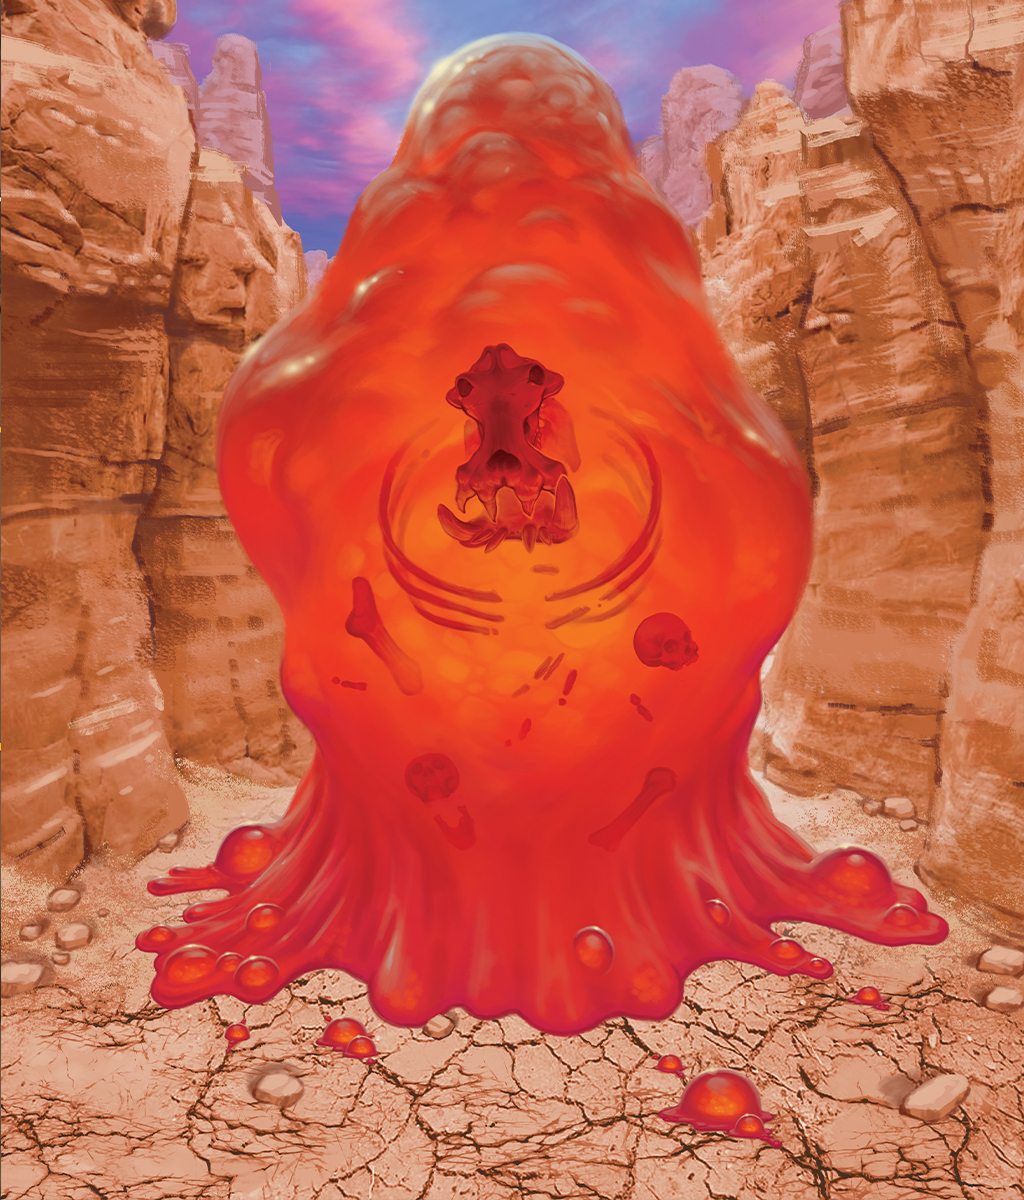
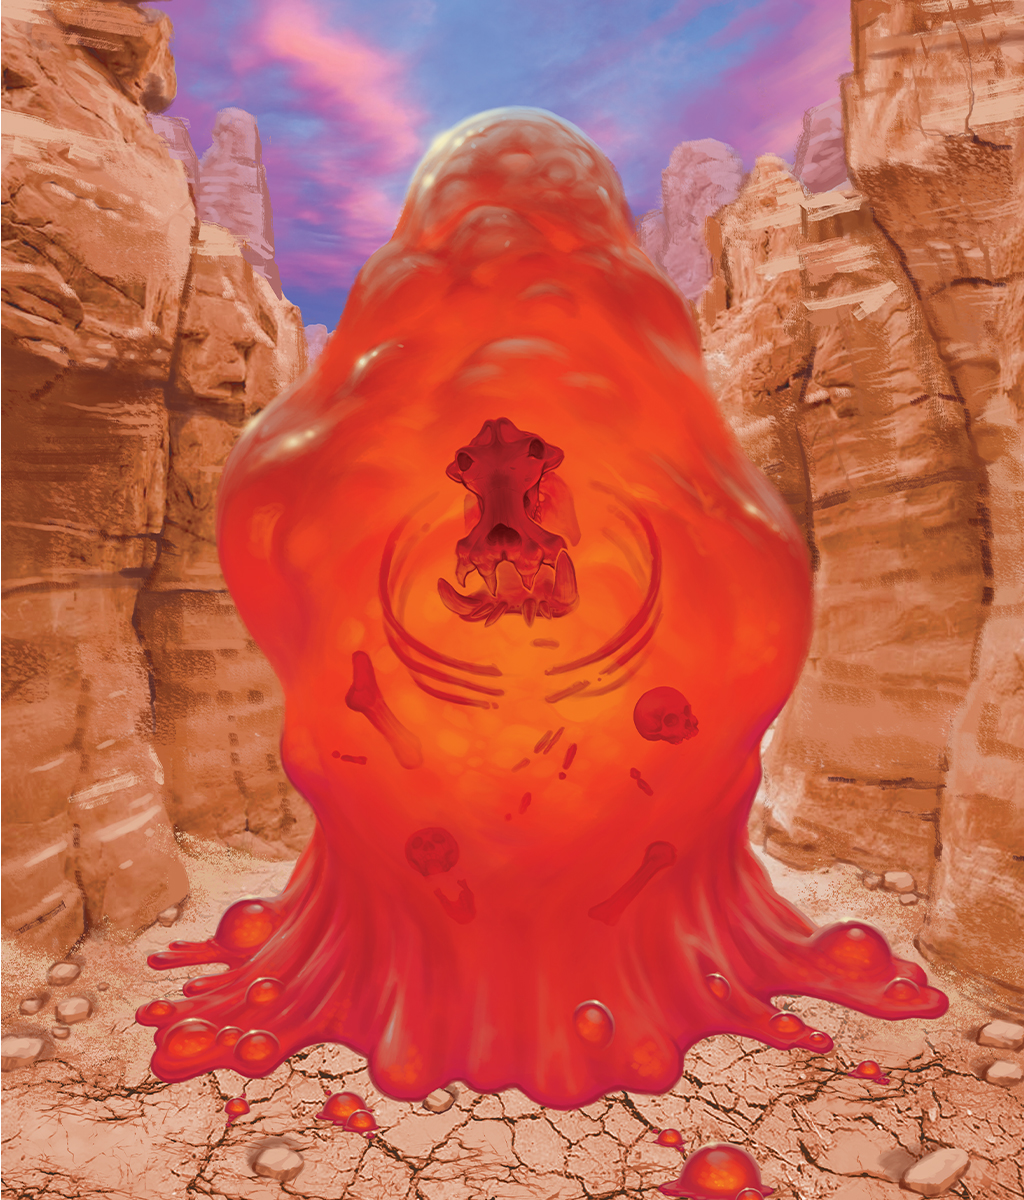
Add button press animation and update Jugolach artwork
Add pressed state animation (scale, brightness, inset shadow) to main menu
buttons and replace Jugolach hero portrait with updated artwork.

diff --git a/src/components/menu/MainMenu.tsx b/src/components/menu/MainMenu.tsx
@@ -136,19 +136,25 @@ export function MainMenu() {
 							textAlign: "left",
 							animation: `mainBtnIn 0.25s cubic-bezier(0.16, 1, 0.3, 1) ${0.15 + i * 0.05}s both`,
 							transition:
-								"transform 0.15s, box-shadow 0.15s, border-color 0.2s",
+								"transform 0.15s, box-shadow 0.15s, border-color 0.2s, filter 0.15s",
 						}}
 						onMouseDown={(e) => {
-							(e.currentTarget as HTMLButtonElement).style.transform =
-								"scale(0.97)";
+							const btn = e.currentTarget as HTMLButtonElement;
+							btn.style.transform = "scale(0.94)";
+							btn.style.filter = "brightness(0.85)";
+							btn.style.boxShadow = "inset 0 2px 6px rgba(0,0,0,0.4)";
 						}}
 						onMouseUp={(e) => {
-							(e.currentTarget as HTMLButtonElement).style.transform =
-								"scale(1)";
+							const btn = e.currentTarget as HTMLButtonElement;
+							btn.style.transform = "scale(1)";
+							btn.style.filter = "";
+							btn.style.boxShadow = "";
 						}}
 						onMouseLeave={(e) => {
-							(e.currentTarget as HTMLButtonElement).style.transform =
-								"scale(1)";
+							const btn = e.currentTarget as HTMLButtonElement;
+							btn.style.transform = "scale(1)";
+							btn.style.filter = "";
+							btn.style.boxShadow = "";
 						}}
 					>
 						<div

diff --git a/dev-dist/sw.js b/dev-dist/sw.js
@@ -82,7 +82,7 @@ define(['./workbox-5119daf5'], (function (workbox) { 'use strict';
     "revision": "3ca0b8505b4bec776b69afdba2768812"
   }, {
     "url": "index.html",
-    "revision": "0.b4iislskbu"
+    "revision": "0.s1hr6u47fks"
   }], {});
   workbox.cleanupOutdatedCaches();
   workbox.registerRoute(new workbox.NavigationRoute(workbox.createHandlerBoundToURL("index.html"), {
